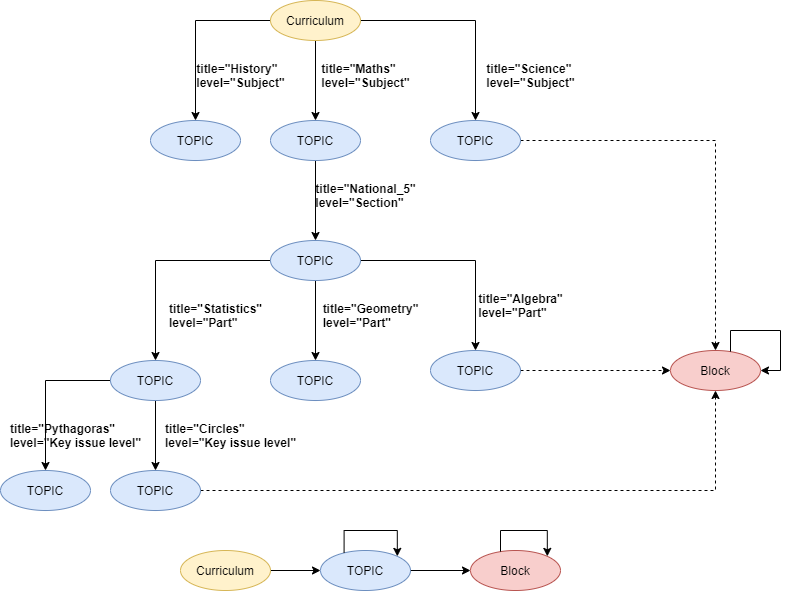
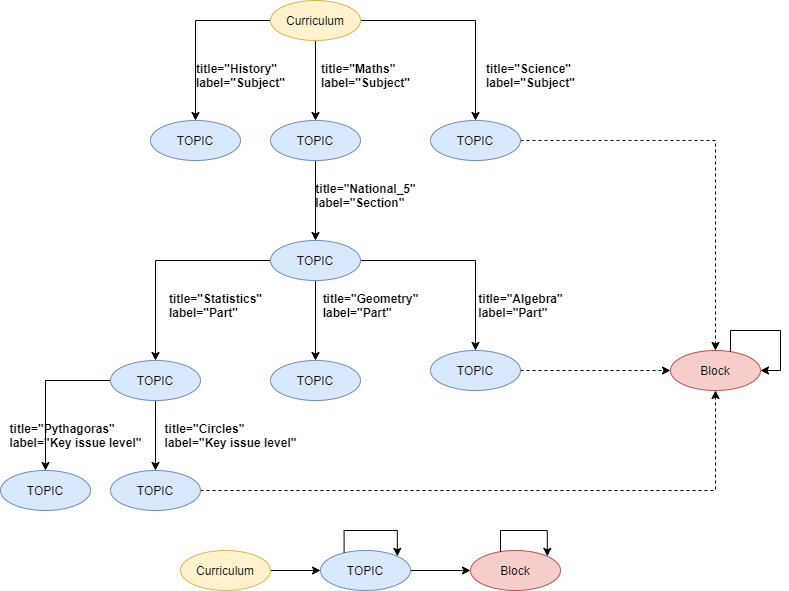
Add another curriculum data model

diff --git a/README.md b/README.md
@@ -50,3 +50,19 @@ When the application runs successfully
 ![Access postgresDB from local server](setup/images/postgres-access-config-settings.PNG)
 
 NOTE! NoSQL setup is not working as per new schema changes.
+
+
+## Curriculum Data Modeling 
+
+### Curriculum data modeling with topicLabels, topics, levels and nested units
+In this model, curriculum is defined for the fixed set of topicLabels.
+TopicLabels are the logical separation for different topics and levels.
+Units are defined as combination of topic and level.
+We can have nested units which can be connected with nested blocks.
+![Curriculum data modeling](setup/images/backend-Curriculum data model 1.png)
+
+### Curriculum data modeling with nested topics only
+In this model, curriculum is defined with nested topics.
+Each topic has title and label, title defines the topic name while label defines the logical separation for different topics.
+We can have nested topics and those topics can be connected with nested blocks.
+![Curriculum data modeling](setup/images/backend-Curriculum data model 2.png)
